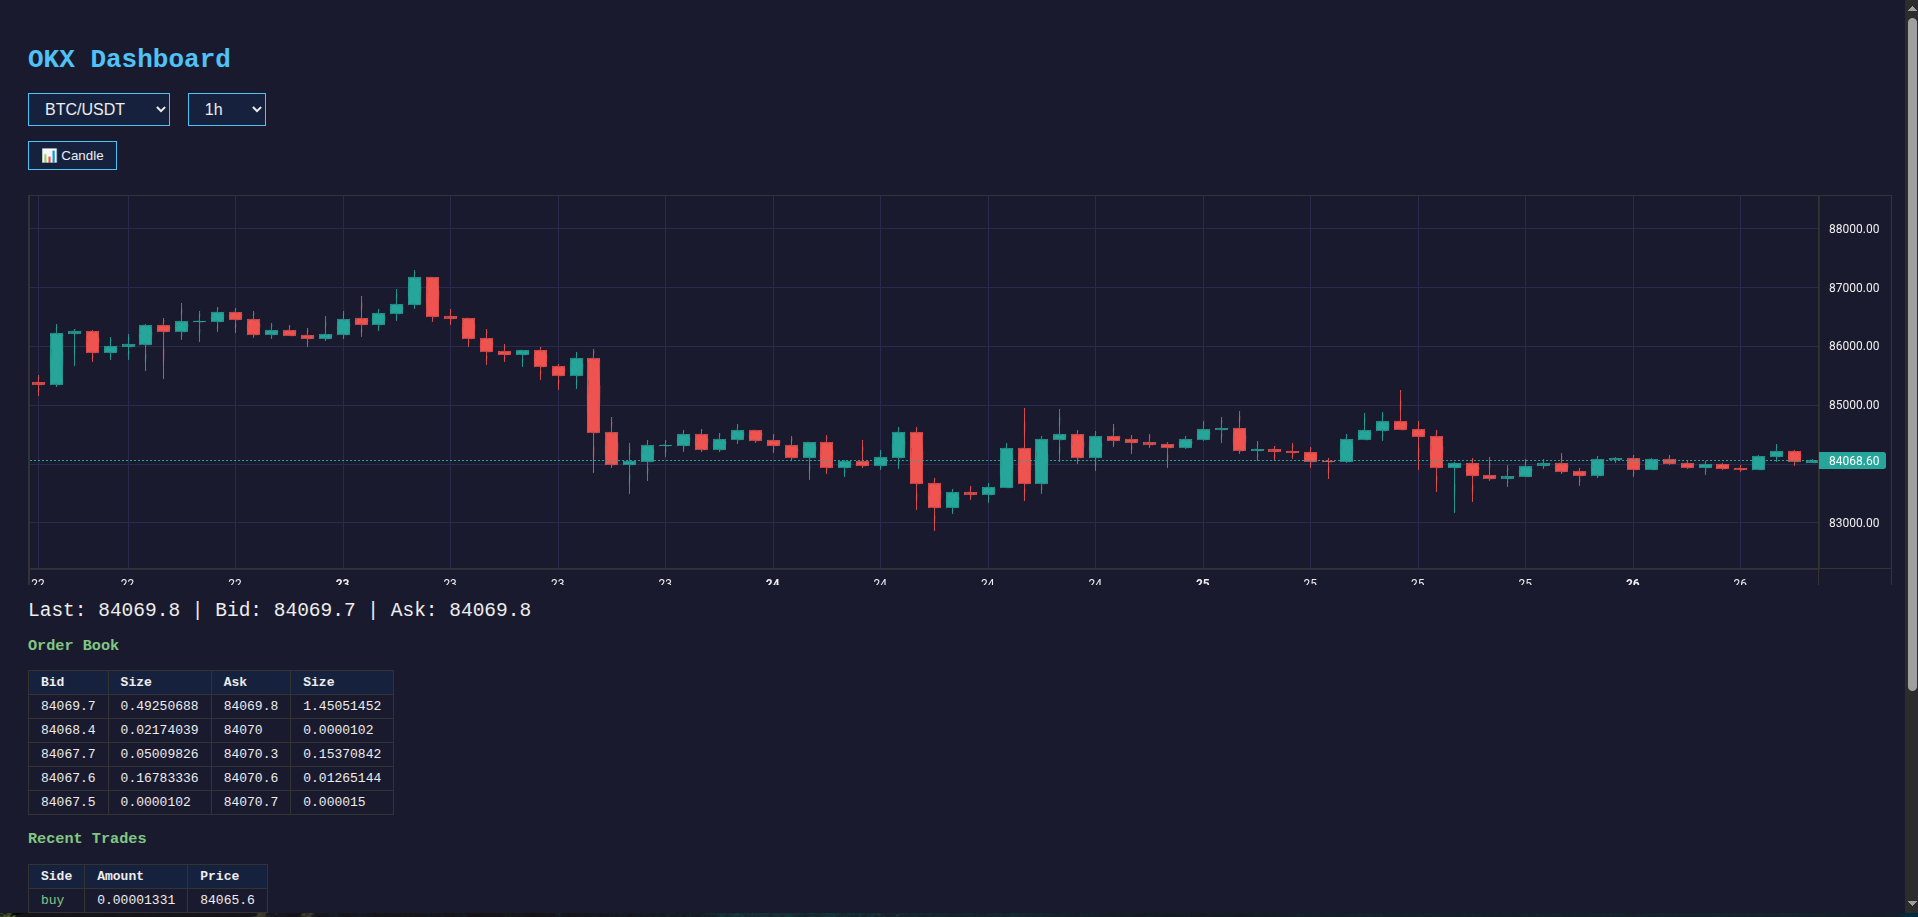
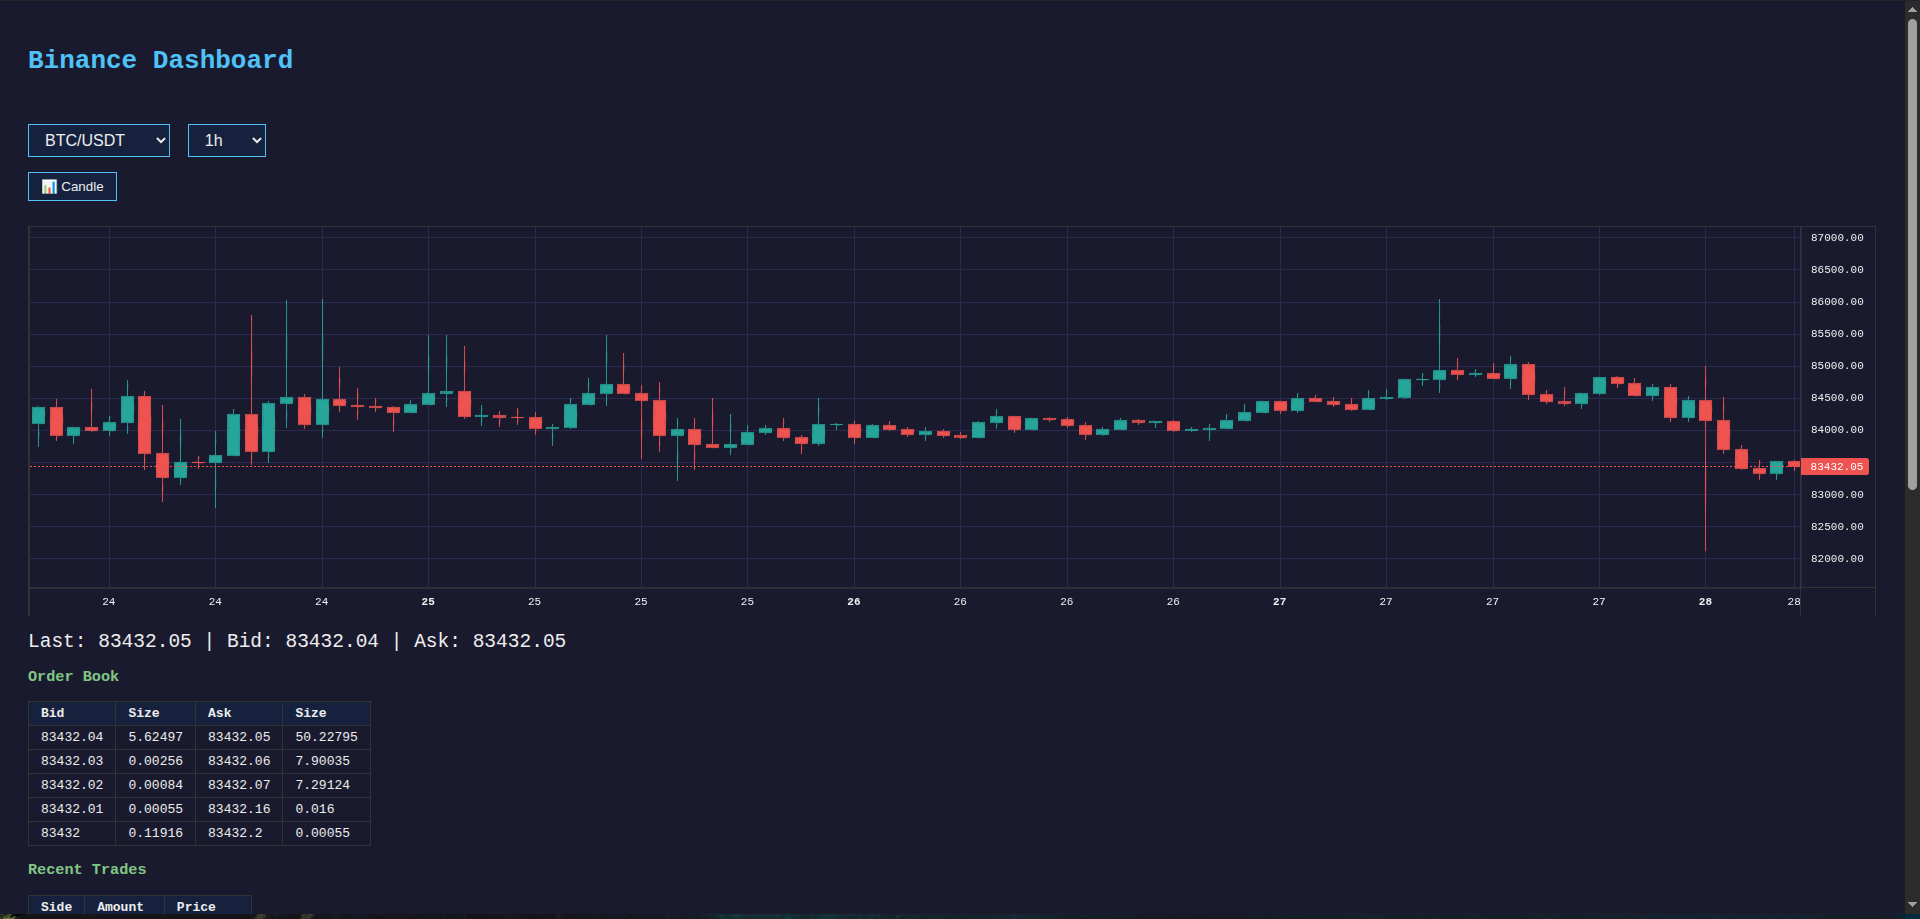
Fixed port, name, and branding for Binance

diff --git a/js.js b/js.js
@@ -200,6 +200,25 @@ function exportPnLCSV() {
         });
 }   
 
+function fetchMode() {
+    fetch('/api/mode')
+        .then(r => r.json())
+        .then(d => {
+            const badge = document.getElementById('mode-badge');
+            if (d.mode === 'DEMO') {
+                badge.textContent = 'DEMO';
+                badge.style.background = '#f0b90b';
+                badge.style.color = '#000';
+            } else {
+                badge.textContent = 'LIVE';
+                badge.style.background = '#e57373';
+                badge.style.color = '#fff';
+            }
+        });
+}   
+
+
+fetchMode();
 initEquityChart();
 fetchPnL();   
 fetchJournal();   

diff --git a/app.py b/app.py
@@ -7,15 +7,15 @@ load_dotenv()
 app = Flask(__name__)
 
 ex = ccxt.binance({
-    'apiKey': os.getenv('BINANCE_KEY'),
-    'secret': os.getenv('BINANCE_SECRET')
-})     
-
+    'apiKey': os.getenv('OKX_KEY'),
+    'secret': os.getenv('OKX_SECRET'),
+    })   
+ex.set_sandbox_mode(True)
 
 HTML = """<!DOCTYPE html>
 <html>
 <head>
-    <title>OKX Dashboard</title>
+    <title>Binance Dashboard</title>
     <script src="https://unpkg.com/lightweight-charts@4.1.3/dist/lightweight-charts.standalone.production.js"></script>
     <style>
         body { font-family: monospace; background: #1a1a2e; color: #eee; padding: 20px; }
@@ -33,7 +33,8 @@ HTML = """<!DOCTYPE html>
     </style>
 </head>
 <body>
-    <h1>OKX Dashboard</h1>
+    <h1>Binance Dashboard</h1>
+    <span id="mode-badge" style="font-size:0.7em;padding:3px 8px;border-radius:4px;margin-left:10px;"></span>   
     <div class="controls">
         <select id="symbol">
             <option value="BTC/USDT">BTC/USDT</option>
@@ -181,7 +182,11 @@ def api_pnl():
         'closed_trades': closed_trades,
         'equity_curve': equity_curve,
         'open_position': open_position
-    })          
+    })  
+    
+@app.route('/api/mode')
+def api_mode():
+    return jsonify({'mode': 'DEMO' if ex.sandbox else 'LIVE'})           
 
 if __name__ == '__main__':
-    app.run(port=8501)   
+    app.run(port=8502)

diff --git a/README.md b/README.md
@@ -1,6 +1,6 @@
 
-# OKX Trading Dashboard
-![OKX Trading Dashboard](screenshot.png)   
+# Binance Trading Dashboard
+![Binance Trading Dashboard](screenshot.png)   
 
 A custom crypto trading terminal built with Flask + CCXT + TradingView Lightweight Charts.
 
@@ -26,7 +26,7 @@ pip install -r requirements.txt
 
 cp .env.example .env
 
-5. Edit `.env` and replace the placeholders with your OKX API credentials.
+5. Edit `.env` and replace the placeholders with your Binance API credentials.
 6. Run:
 
 python3 app.py
@@ -44,8 +44,8 @@ python3 app.py
 | `requirements.txt` | Python dependencies |
 
 ## Notes
-- API key needs at minimum "Read" permission on OKX.
-- Trade permission requires $100+ account balance on OKX.
+- API key needs at minimum "Read" permission on Binance.
+- Trade permission requires $100+ account balance on Binance.
 - Default port is 8501. Change it in `app.py` if needed.
 
 Save (Ctrl+S).
